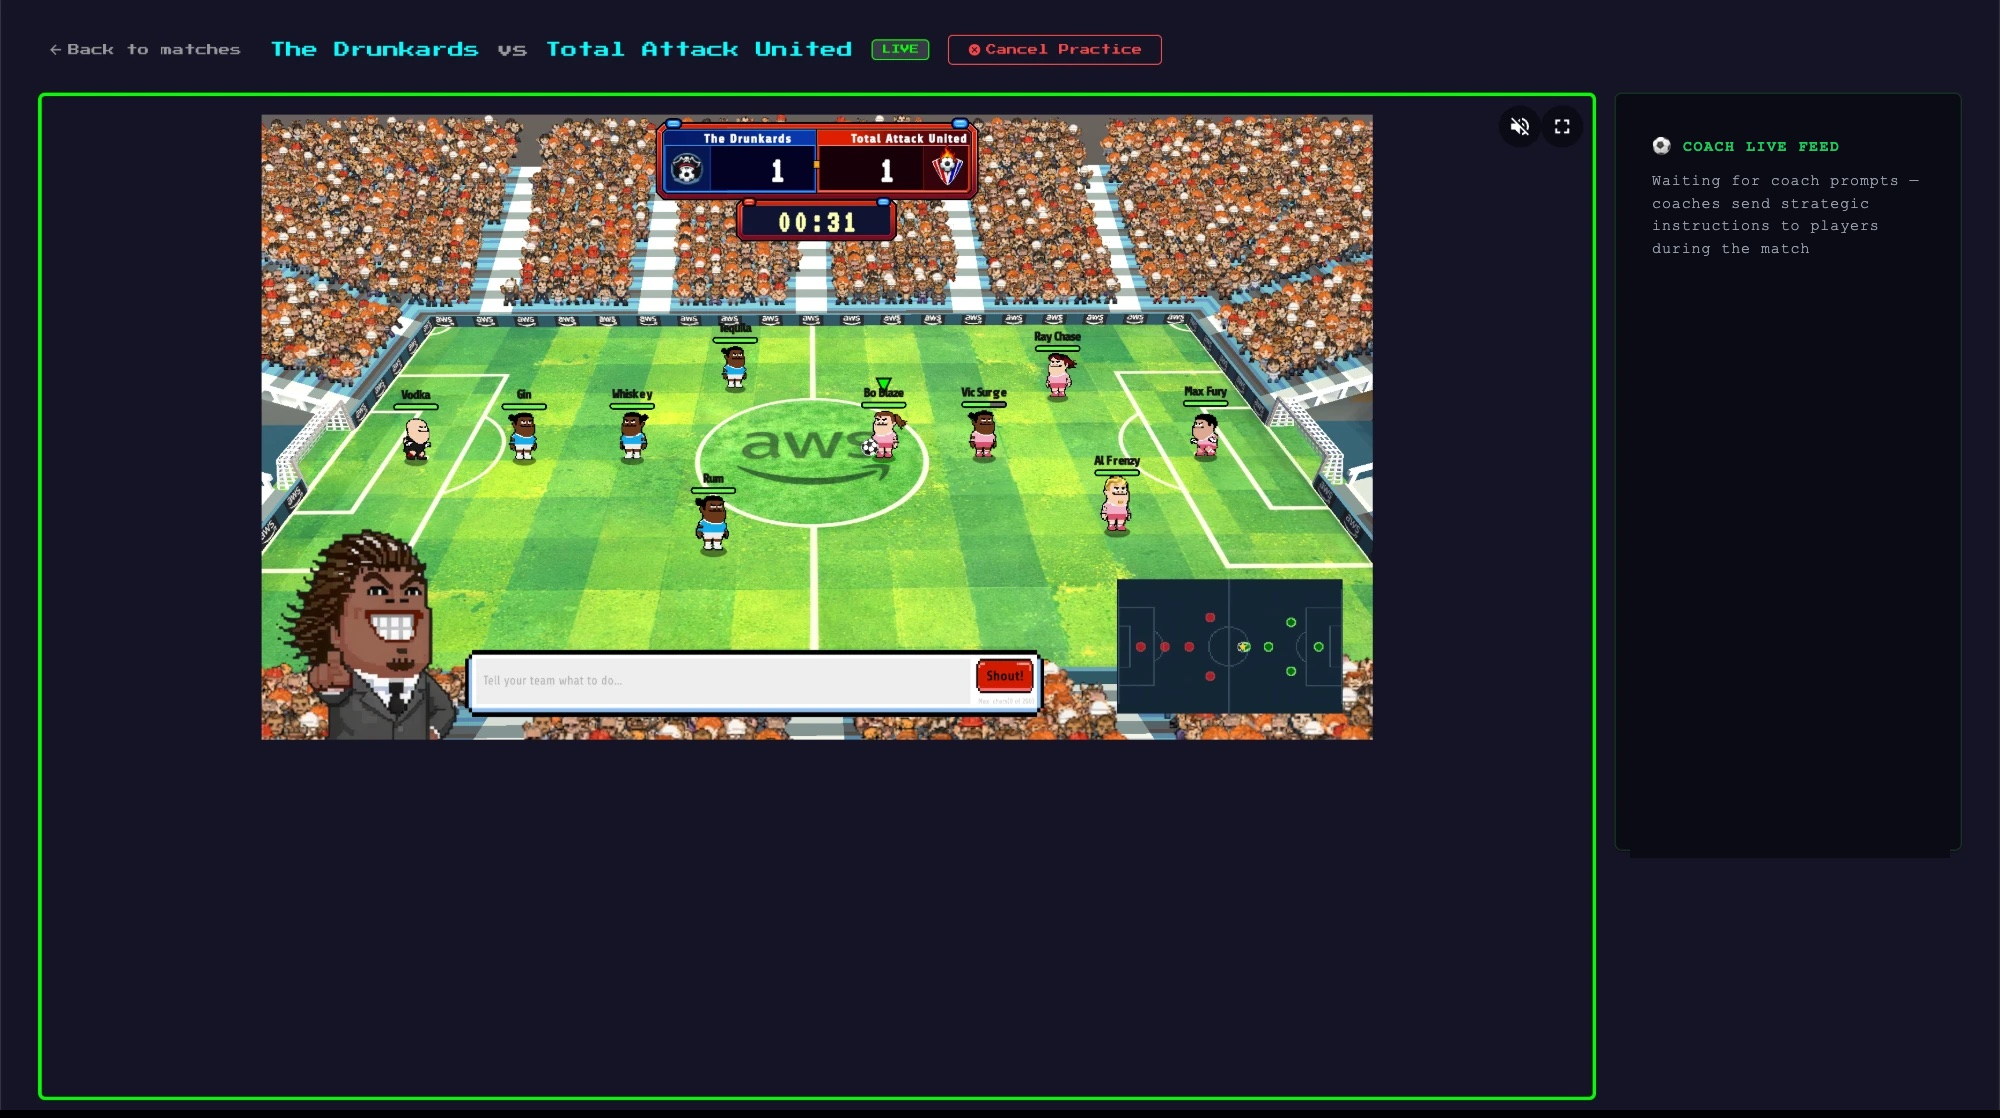
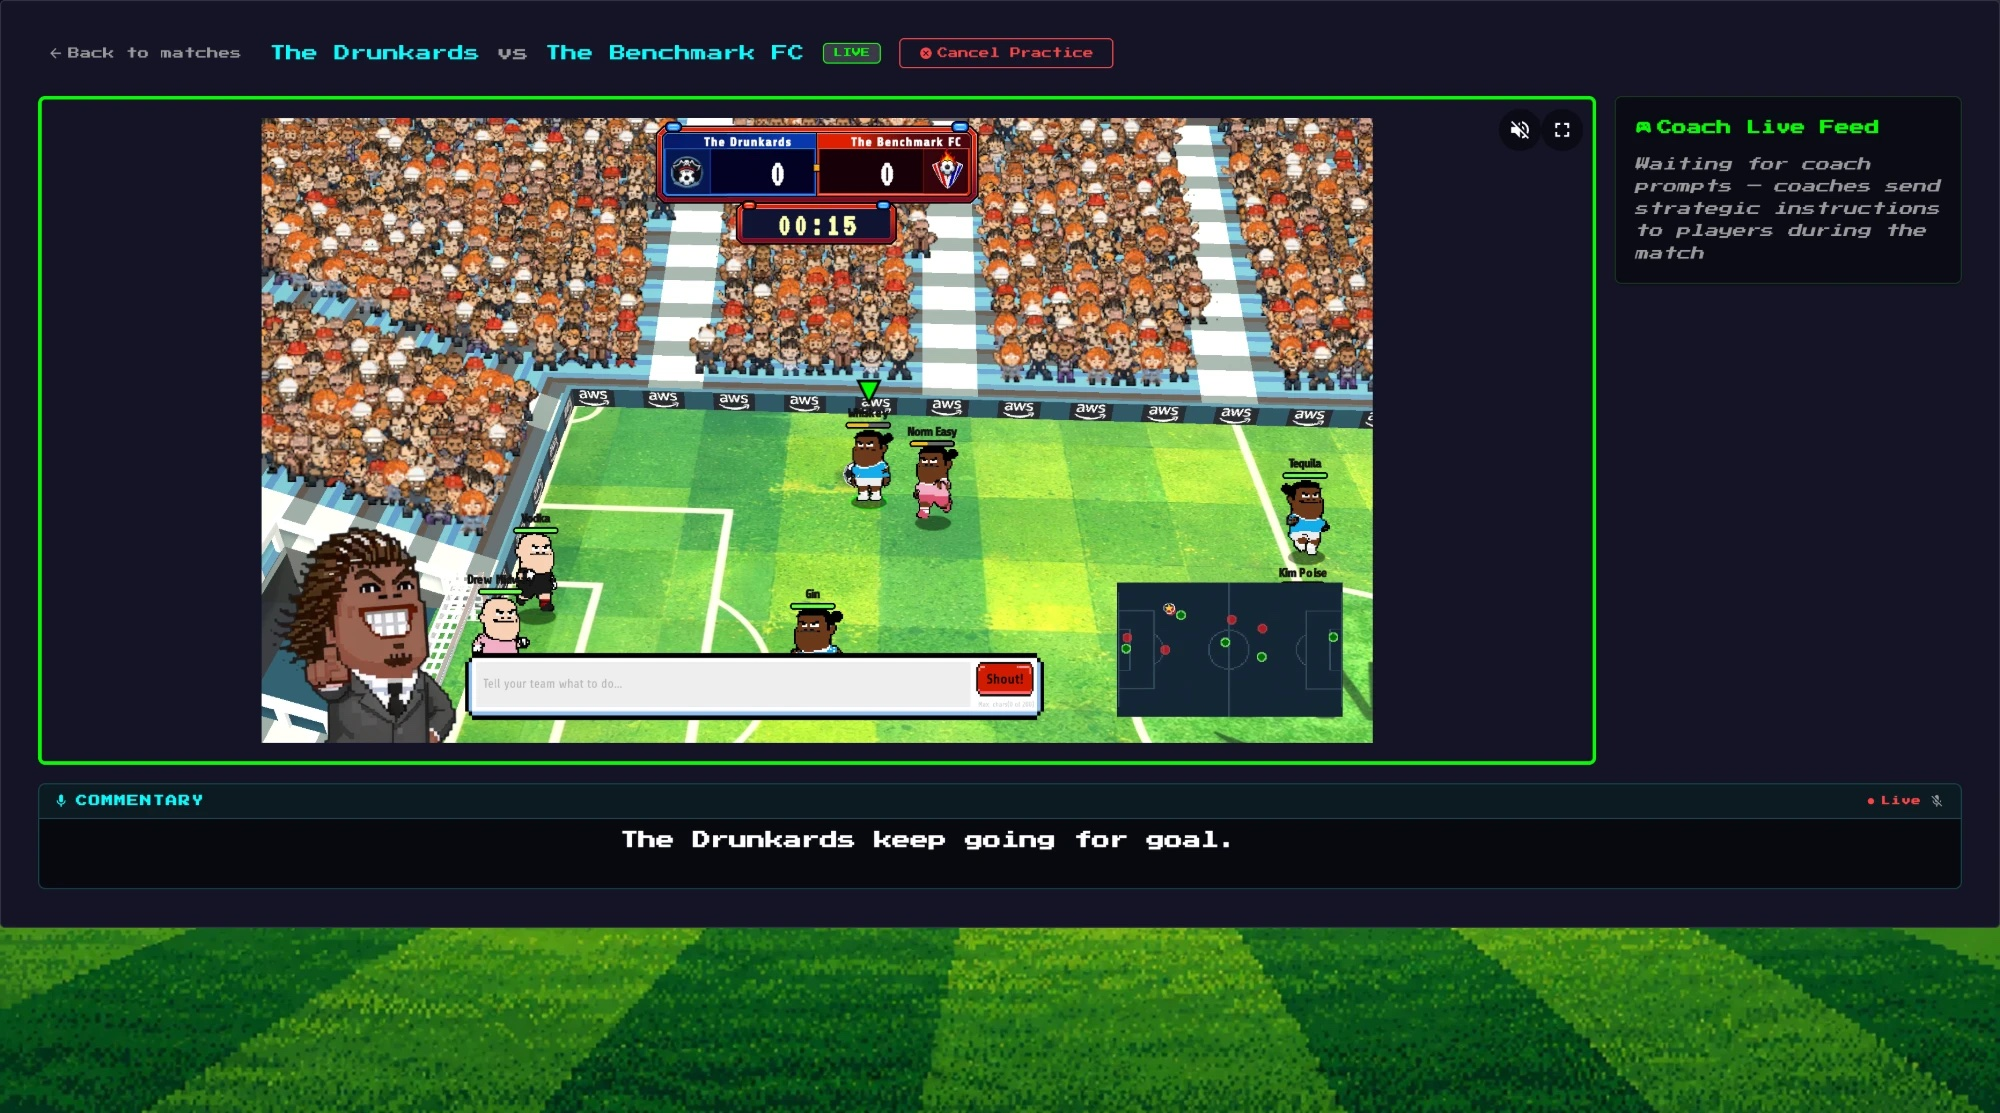
recorder 1.43 (rebuilt)

diff --git a/README.md b/README.md
@@ -26,15 +26,15 @@
 <th width="50%">With the plugin</th>
 </tr>
 <tr>
-<td><img src="docs/without-plugin.jpg" alt="The match viewer without the plugin: the game, an empty frame under it and an empty Coach Live Feed card"></td>
+<td><img src="docs/without-plugin.jpg" alt="The match viewer without the plugin: the game, an empty Coach Live Feed card and one line of commentary"></td>
 <td><img src="docs/viewer-panel.jpg" alt="The same match with the plugin: under the game shots, xG, possession, a shot map and the agents; on the right the opponent panel"></td>
 </tr>
 <tr>
 <td valign="top">
 
 - the game picture
-- an empty frame under it
 - *Coach Live Feed* waiting for prompts
+- one line of commentary
 
 </td>
 <td valign="top">
